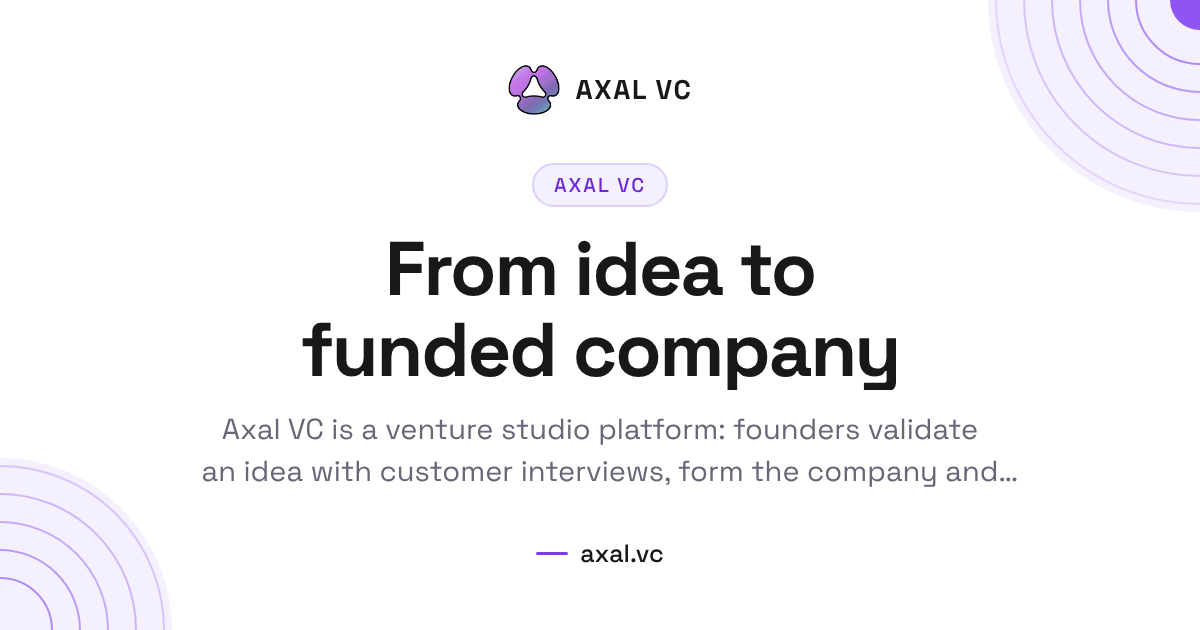
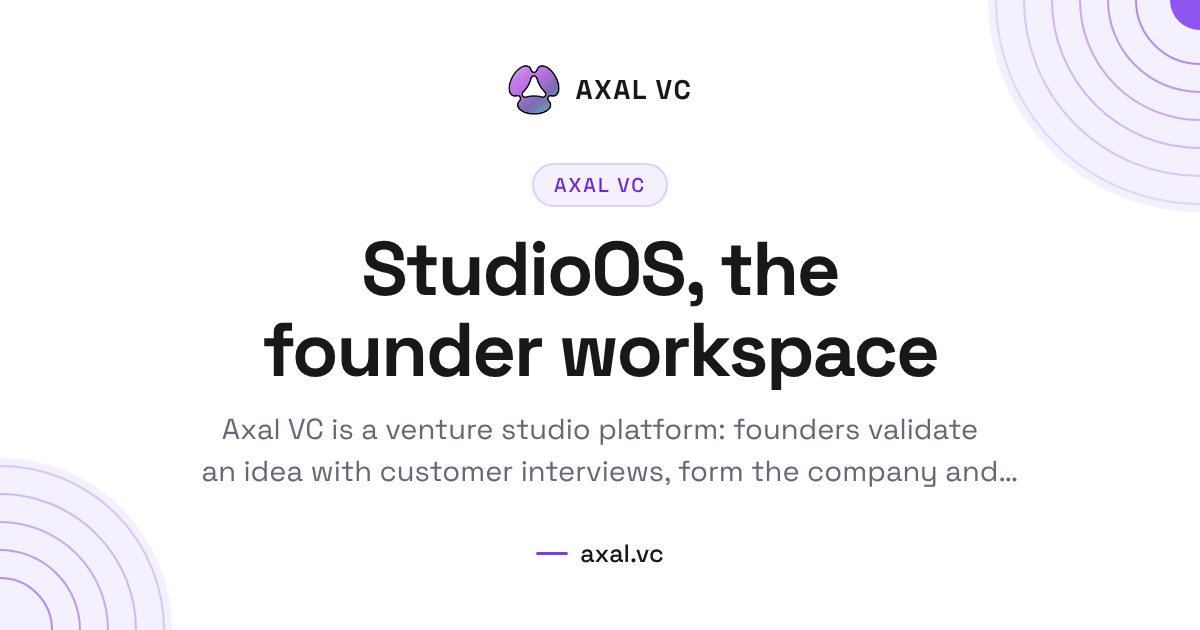
fix(#6988): regenerate the home and founders share cards for their new copy
The open graph check flagged both cards stale after the title and description
changes. Only these two cards and their manifest hashes change.

Claude-Session: https://claude.ai/code/session_01VnZFx6fFns2MH12GF43Rro

Changed region(s): [[0.2158, 0.5127, 0.8017, 0.6333], [0.2775, 0.3619, 0.7092, 0.4825]]

diff --git a/frontend/src/lib/ogManifest.js b/frontend/src/lib/ogManifest.js
@@ -25,7 +25,7 @@ export const OG_MANIFEST = {
   "content": "8c8ea435",
   "default": "ef323c4c",
   "event": "6fa3f14d",
-  "home": "6ea003fc",
+  "home": "3283f3d5",
   "jobs": "54a75533",
   "pricing": "21ab152f",
   "pricing-investor": "29cb8816",
@@ -34,7 +34,7 @@ export const OG_MANIFEST = {
   "private": "34ba2c74",
   "product": "6c19a0ac",
   "product-advisors": "e6be160b",
-  "product-founders": "15043d1b",
+  "product-founders": "40cbaa6e",
   "product-investors": "52bbb8e6",
   "product-service-partners": "346158bc",
   "profile": "96532f1b",
